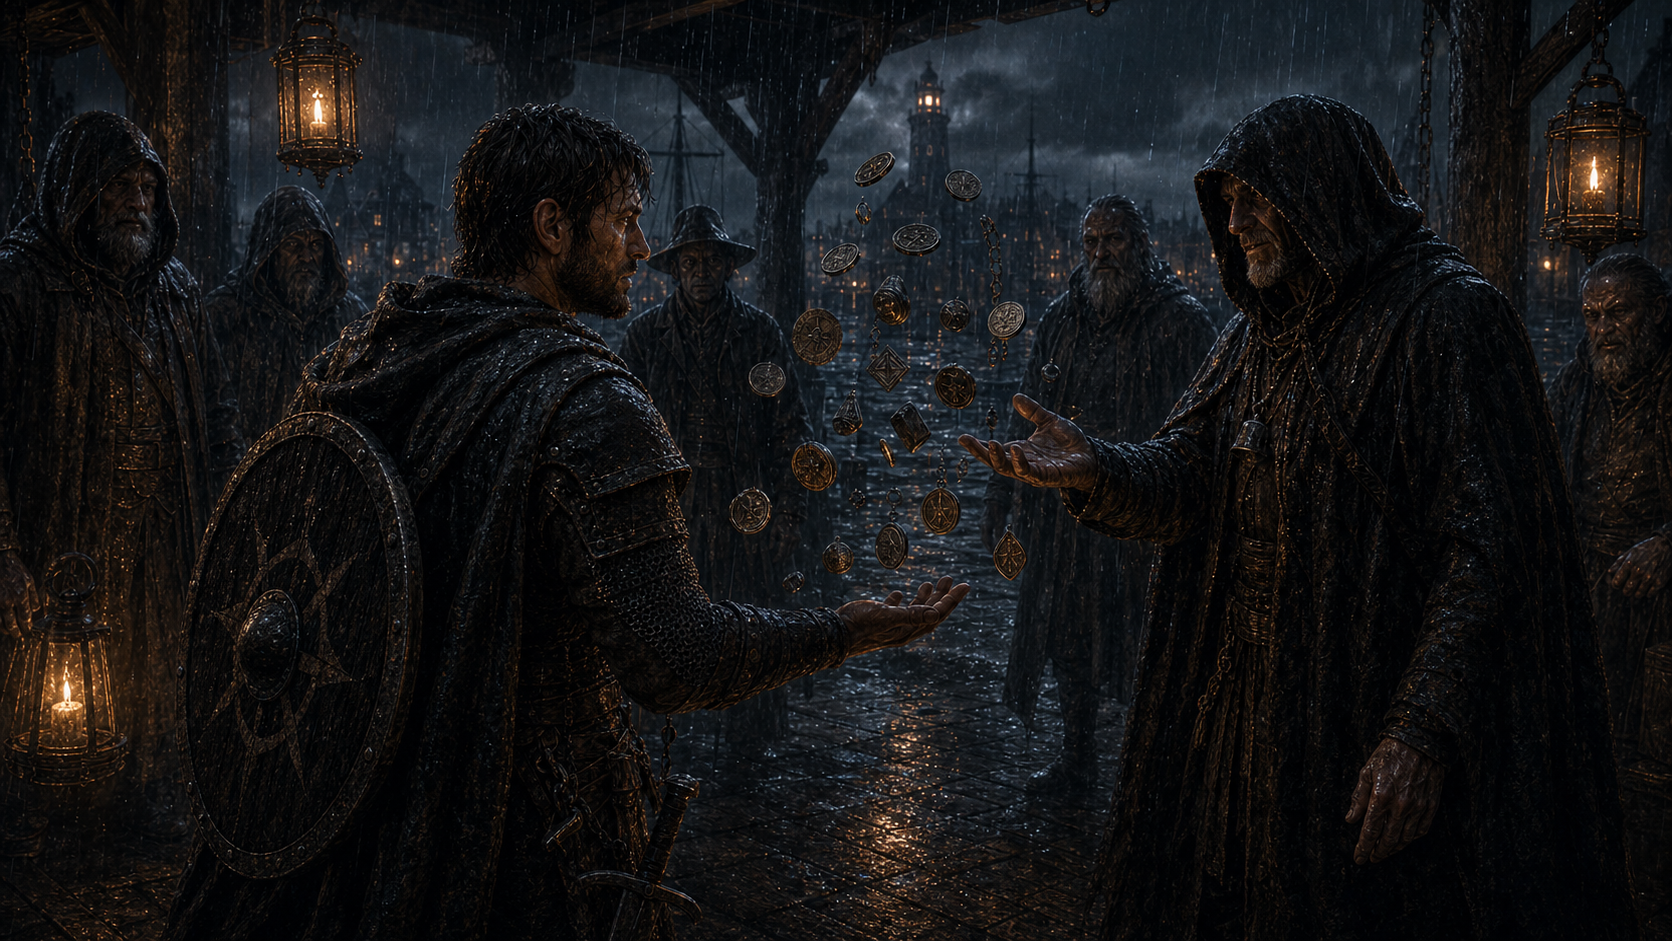
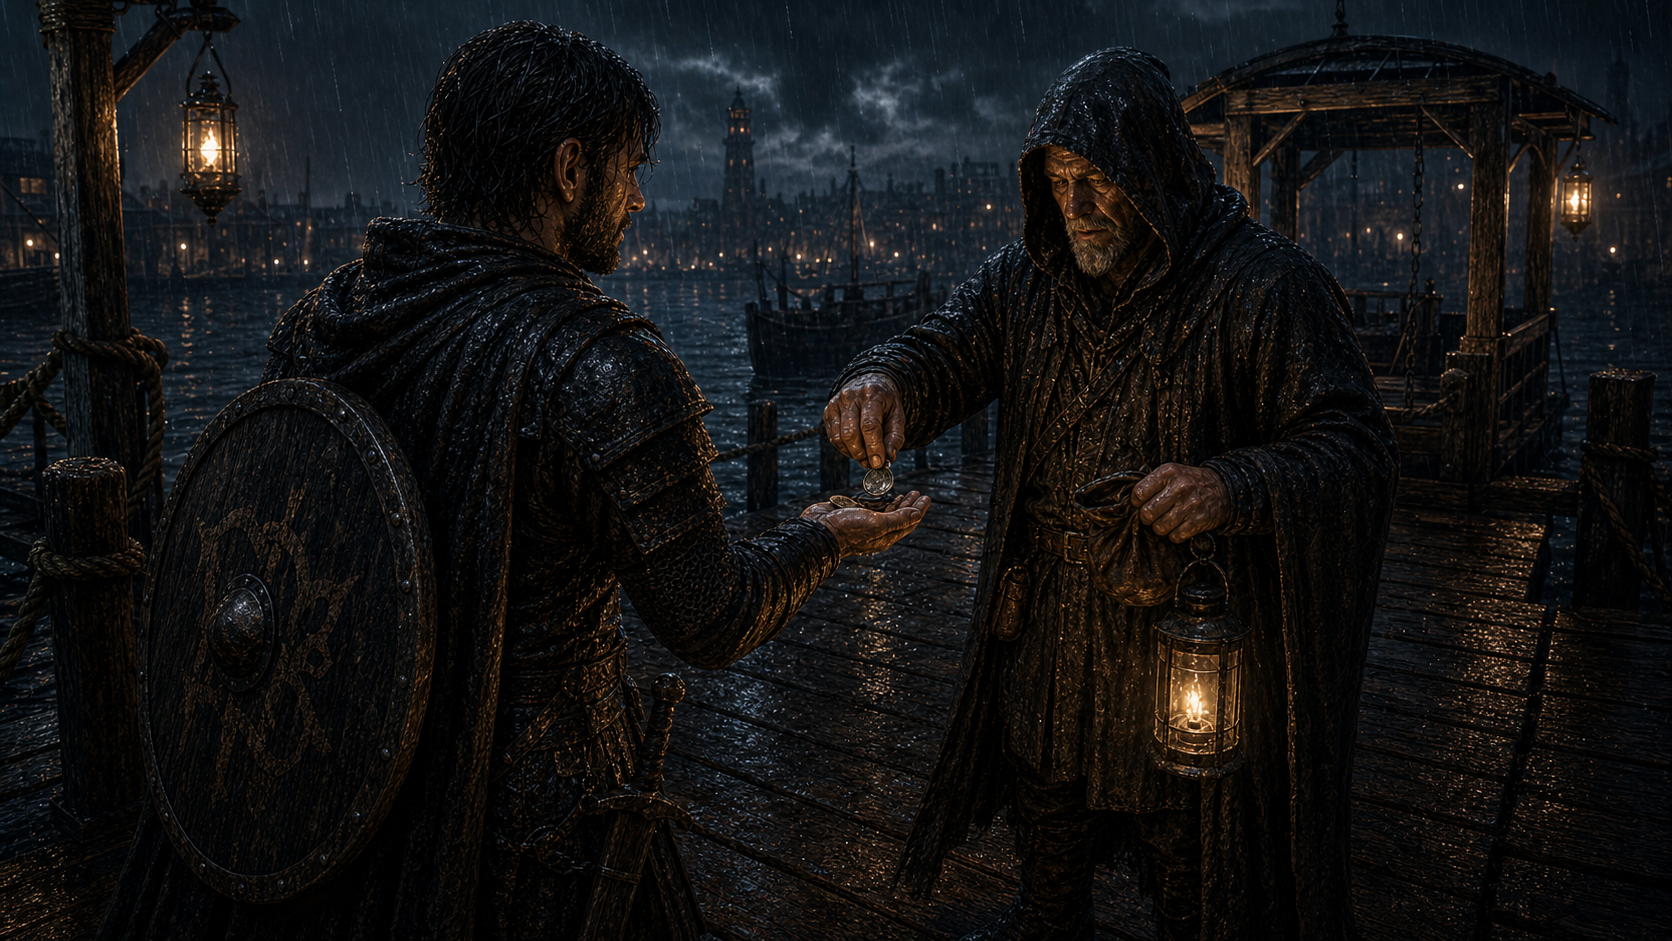
docs: clarify playable demo story

diff --git a/docs/index.html b/docs/index.html
@@ -877,109 +877,110 @@
           status: "campaign started",
           stageKicker: "#1 / scene / generated image",
           stageTitle: "Blackwater Pier",
-          stageText: "The first generated frame anchors the scene before the player chooses a route.",
+          stageText: "The first generated frame gives the player a clear place, problem, and route forward.",
           hp: "12/12",
           xp: "0",
           clock: "1/6",
           checkpoint: "before crossing",
           ledger: [
             ["Inventory", "Longsword, shield, lantern, sealed ferry token."],
-            ["Known clue", "Three lanterns burn below the tide line."],
+            ["Immediate goal", "Cross Blackwater Pier before the harbor gate closes."],
+            ["Known problem", "The ferry is chained up and its tide ledger is missing."],
             ["Rule posture", "Failure moves the scene forward instead of stalling it."]
           ],
           messages: [
             {
               from: "codex",
               text:
-                "Questforge creates Rowan Tidewell, a level-1 fighter and former harbor guard. The rain has emptied Blackwater Pier, but three lanterns burn underneath the boards where the tide should have drowned them.",
+                "Questforge creates Rowan Tidewell, a level-1 fighter and former harbor guard. Rowan needs the last ferry across Blackwater Pier before the harbor gate closes. Rain hammers the boards. The ferry is chained to the lower steps, the toll booth door hangs open, and the hook where the tide ledger should hang is empty.",
               tool:
                 "Ran 4 commands\npython scripts/questforge_setup.py --data-dir .questforge\npython scripts/game_state.py add-character --name Rowan --class Fighter\npython scripts/game_state.py checkpoint --label \"Before crossing the pier\"\npython scripts/visual_planner.py --scene \"blackwater pier\""
             },
             {
               from: "codex",
               text:
-                "A bell rings below the water. A voice says: \"A crossing is owed.\" The ferry token in your palm warms like a coal."
+                "An older bellman steps from the rain with a storm lantern. \"No ledger, no crossing. Someone took it from my booth ten minutes ago. Find who did it, or force the chain yourself.\""
             }
           ],
           choices: [
             {
-              text: "Lift the lantern and listen",
-              meta: "Wisdom (Perception) +3, careful approach.",
+              text: "Inspect the toll booth",
+              meta: "Wisdom (Perception) +3, careful clue read.",
               target: "listen"
             },
             {
-              text: "Draw steel and step below",
-              meta: "Athletics +5, direct approach.",
+              text: "Force the ferry chain",
+              meta: "Strength (Athletics) +5, dangerous shortcut.",
               target: "steel"
             }
           ]
         },
         listen: {
           parent: "intro",
-          choice: "I lift the lantern and listen before stepping onto the lower pier.",
-          label: "#2 Listen",
+          choice: "I raise the lantern and inspect the toll booth before touching the ferry chain.",
+          label: "#2 Inspect",
           visual: "pov",
           status: "360 POV generated",
           stageKicker: "#2 / POV-360 / generated photosphere",
-          stageTitle: "The pier is doubled.",
-          stageText: "Drag the image: Rowan sees the same harbor twice, one above the water and one beneath it.",
+          stageTitle: "The booth shows a theft.",
+          stageText: "Drag the image: the player can inspect the ferry, the booth, the lower steps, and possible exits.",
           hp: "12/12",
           xp: "25",
           clock: "2/6",
-          checkpoint: "lower route revealed",
+          checkpoint: "ledger trail found",
           ledger: [
-            ["XP", "+25 for discovering the overlap route without triggering it."],
-            ["Condition", "Focused: advantage on the next clue read in this scene."],
-            ["Clue", "The bellman's ledger is hidden in the dry version of the pier."]
+            ["XP", "+25 for finding a concrete trail before danger starts."],
+            ["Condition", "Focused: advantage on the next clue read on the pier."],
+            ["Clue", "Muddy bootprints lead from the empty ledger hook to the lower toll office."]
           ],
           messages: [
             {
               from: "codex",
               text:
-                "Roll Wisdom (Perception): <roll>d20 + 3 = 15 + 3 = 18 vs DC 14</roll>. Success. The rain bends around one lantern. The pier is not cracked; it is doubled. One version is wet and present. One is dry, old, and waiting below."
+                "Roll Wisdom (Perception): <roll>d20 + 3 = 15 + 3 = 18 vs DC 13</roll>. Success. This is a theft, not a riddle. You find a wet glove print on the empty ledger hook, a torn leather strap near the lower steps, and muddy bootprints leading toward the toll office."
             },
             {
               from: "codex",
               text:
-                "I generate a 360 POV because this is a look-around moment. In the real plugin it would open as a local photosphere viewer, not as a flat image."
+                "I generate a 360 POV because this is a spatial investigation moment. In the real plugin it opens as a local photosphere viewer so the player can look around the scene."
             }
           ],
           choices: [
             {
-              text: "Promise to recover the ledger",
-              meta: "Persuasion +1, honest bargain.",
+              text: "Offer to recover the ledger",
+              meta: "No roll if you use the clue and make a clear bargain.",
               target: "ledger"
             },
             {
-              text: "Demand payment before helping",
-              meta: "Charisma +1, harder social angle.",
+              text: "Ask for payment first",
+              meta: "Charisma (Persuasion) +1, possible cost in time.",
               target: "payment"
             }
           ]
         },
         steel: {
           parent: "intro",
-          choice: "I draw steel and step down before the voice finishes speaking.",
+          choice: "I draw steel and try to force the ferry chain before the thief gets farther away.",
           label: "#2 Steel",
           visual: "map",
           status: "tactical map generated",
           stageKicker: "#2 / tactical map / generated image",
-          stageTitle: "The lower pier answers with chains.",
+          stageTitle: "A chain trap snaps tight.",
           stageText: "The browser side switches to a top-down map because positioning, cover, and hazards now matter.",
           hp: "9/12",
           xp: "0",
           clock: "3/6",
           checkpoint: "combat started",
           ledger: [
-            ["Damage", "Rowan takes 3 bludgeoning damage from a snapping mooring chain."],
-            ["Combat", "Initiative started: Rowan 16, drowned chain 11."],
+            ["Damage", "Rowan takes 3 bludgeoning damage from a yanked mooring chain."],
+            ["Combat", "Initiative started: Rowan 16, dock thieves 11."],
             ["Terrain", "Crates grant half cover; lantern oil can ignite the middle span."]
           ],
           messages: [
             {
               from: "codex",
               text:
-                "Roll Strength (Athletics): <roll>d20 + 5 = 7 + 5 = 12 vs DC 15</roll>. Failure, but forward. Rowan reaches the lower pier, yet a drowned mooring chain lashes across his shield for 3 damage."
+                "Roll Strength (Athletics): <roll>d20 + 5 = 7 + 5 = 12 vs DC 15</roll>. Failure, but forward. Rowan hauls the ferry chain loose enough to board, but a hidden dock thief yanks the far end. The chain slams across Rowan's shield for 3 damage, and two thieves step out from the lower awning."
             },
             {
               from: "codex",
@@ -1002,64 +1003,64 @@
         },
         ledger: {
           parent: "listen",
-          choice: "I promise to recover the ledger if the bellman lets me cross safely.",
+          choice: "I offer to recover the ledger if the bellman holds the ferry for me.",
           label: "#3 Oath",
           visual: "oath",
           status: "branch resolved",
           stageKicker: "#3A / scene / consequence frame",
           stageTitle: "The bellman accepts the oath.",
-          stageText: "The bargain opens a safe descent and creates a future consequence.",
+          stageText: "The bargain opens a safer route and gives the player an actionable objective.",
           hp: "12/12",
           xp: "75",
           clock: "2/6",
           checkpoint: "before ledger search",
           ledger: [
             ["XP", "+50 for a peaceful route and actionable clue."],
-            ["Quest", "Recover the bellman's ledger from the dry pier office."],
-            ["Consequence", "Breaking the oath will sour future harbor spirits."]
+            ["Quest", "Recover the tide ledger from the lower toll office."],
+            ["Access", "The bellman opens the chain gate and holds the ferry for ten minutes."]
           ],
           messages: [
             {
               from: "codex",
               text:
-                "No roll. Your offer matches what the bellman needs. The lower lanterns part, and a dry stairway appears for three breaths. You gain 50 XP and a clear objective: recover the ledger."
+                "No roll. Your offer solves the bellman's immediate problem and uses the clue you found. He chalks your ferry token, opens the chain gate, and points to the lower toll office. You gain 50 XP and a clear objective: recover the tide ledger."
             },
             {
               from: "codex",
               text:
-                "This is the kind of long-term state Questforge records: oath made, faction attitude improved, future consequence armed."
+                "This is the kind of long-term state Questforge records: oath made, access granted, bellman attitude improved, and a ten-minute clock running."
             }
           ],
           choices: []
         },
         payment: {
           parent: "listen",
-          choice: "I ask what the job pays before I risk my neck.",
+          choice: "I ask what the job pays before I walk into the lower toll office.",
           label: "#3 Price",
           visual: "price",
           status: "social consequence",
           stageKicker: "#3B / scene / social pressure",
-          stageTitle: "The lanterns turn toward you.",
-          stageText: "A consequence frame shows Rowan asking for payment as the bellman's witnesses measure his motive.",
+          stageTitle: "A hard bargain in the rain.",
+          stageText: "A consequence frame shows an ordinary payment negotiation with a real time cost.",
           hp: "12/12",
           xp: "25",
           clock: "3/6",
           checkpoint: "price named",
           ledger: [
-            ["Money", "Offer: 12 gp now, favor owed later."],
-            ["Risk", "Clock advances: the bellman distrusts Rowan's motive."],
+            ["Money", "6 gp now, 6 gp when the ledger is recovered."],
+            ["Risk", "Clock advances: the thief gains another minute."],
             ["Choice", "The player can still accept, haggle, or walk away."]
           ],
           messages: [
             {
               from: "codex",
               text:
-                "Roll Charisma (Persuasion): <roll>d20 + 1 = 11 + 1 = 12 vs DC 15</roll>. Mixed result. The bellman names a price, but the lanterns turn colder. You can continue, yet trust is thinner."
+                "Roll Charisma (Persuasion): <roll>d20 + 1 = 11 + 1 = 12 vs DC 14</roll>. Mixed result. The bellman dislikes losing time, but he counts six gold into your hand and promises six more when the ledger is back."
             },
             {
               from: "codex",
               text:
-                "Questforge avoids a dead end: the failed social angle changes the cost and attitude instead of blocking the adventure."
+                "Questforge avoids a dead end: the social roll changes money, time, and attitude instead of blocking the adventure."
             }
           ],
           choices: []
@@ -1078,7 +1079,7 @@
           clock: "4/6",
           checkpoint: "after chain break",
           ledger: [
-            ["Attack", "Longsword hits AC 13 and deals 7 slashing damage."],
+            ["Attack", "Longsword hits the chain clamp at AC 13 and deals 7 damage."],
             ["XP", "+50 for resolving the immediate hazard."],
             ["Hazard", "Broken chain releases the ferry; the lower pier begins drifting."]
           ],
@@ -1086,7 +1087,7 @@
             {
               from: "codex",
               text:
-                "Attack roll: <roll>d20 + 5 = 14 + 5 = 19 vs AC 13</roll>. Hit. Damage: <roll>1d8 + 3 = 4 + 3 = 7</roll>. The chain snaps and recoils into the water."
+                "Attack roll: <roll>d20 + 5 = 14 + 5 = 19 vs AC 13</roll>. Hit. Damage: <roll>1d8 + 3 = 4 + 3 = 7</roll>. Rowan cuts the chain clamp. The nearest thief loses his grip and the chain recoils into the water."
             },
             {
               from: "codex",
@@ -1098,7 +1099,7 @@
         },
         line: {
           parent: "steel",
-          choice: "I keep the shield high, use the crates, and force it to come through cover.",
+          choice: "I keep the shield high, use the crates, and make the thieves come through cover.",
           label: "#3 Hold",
           visual: "hold",
           status: "defensive success",
@@ -1118,7 +1119,7 @@
             {
               from: "codex",
               text:
-                "You choose a defensive tactic, so I reduce the risk instead of asking for another entry roll. The chain strikes through crates and loses force. Rowan takes 1 damage and gains advantage on the next attack."
+                "You choose a defensive tactic, so I reduce the risk instead of asking for another entry roll. The thief's chain strikes through stacked crates and loses force. Rowan takes 1 damage and gains advantage on his next attack."
             },
             {
               from: "codex",